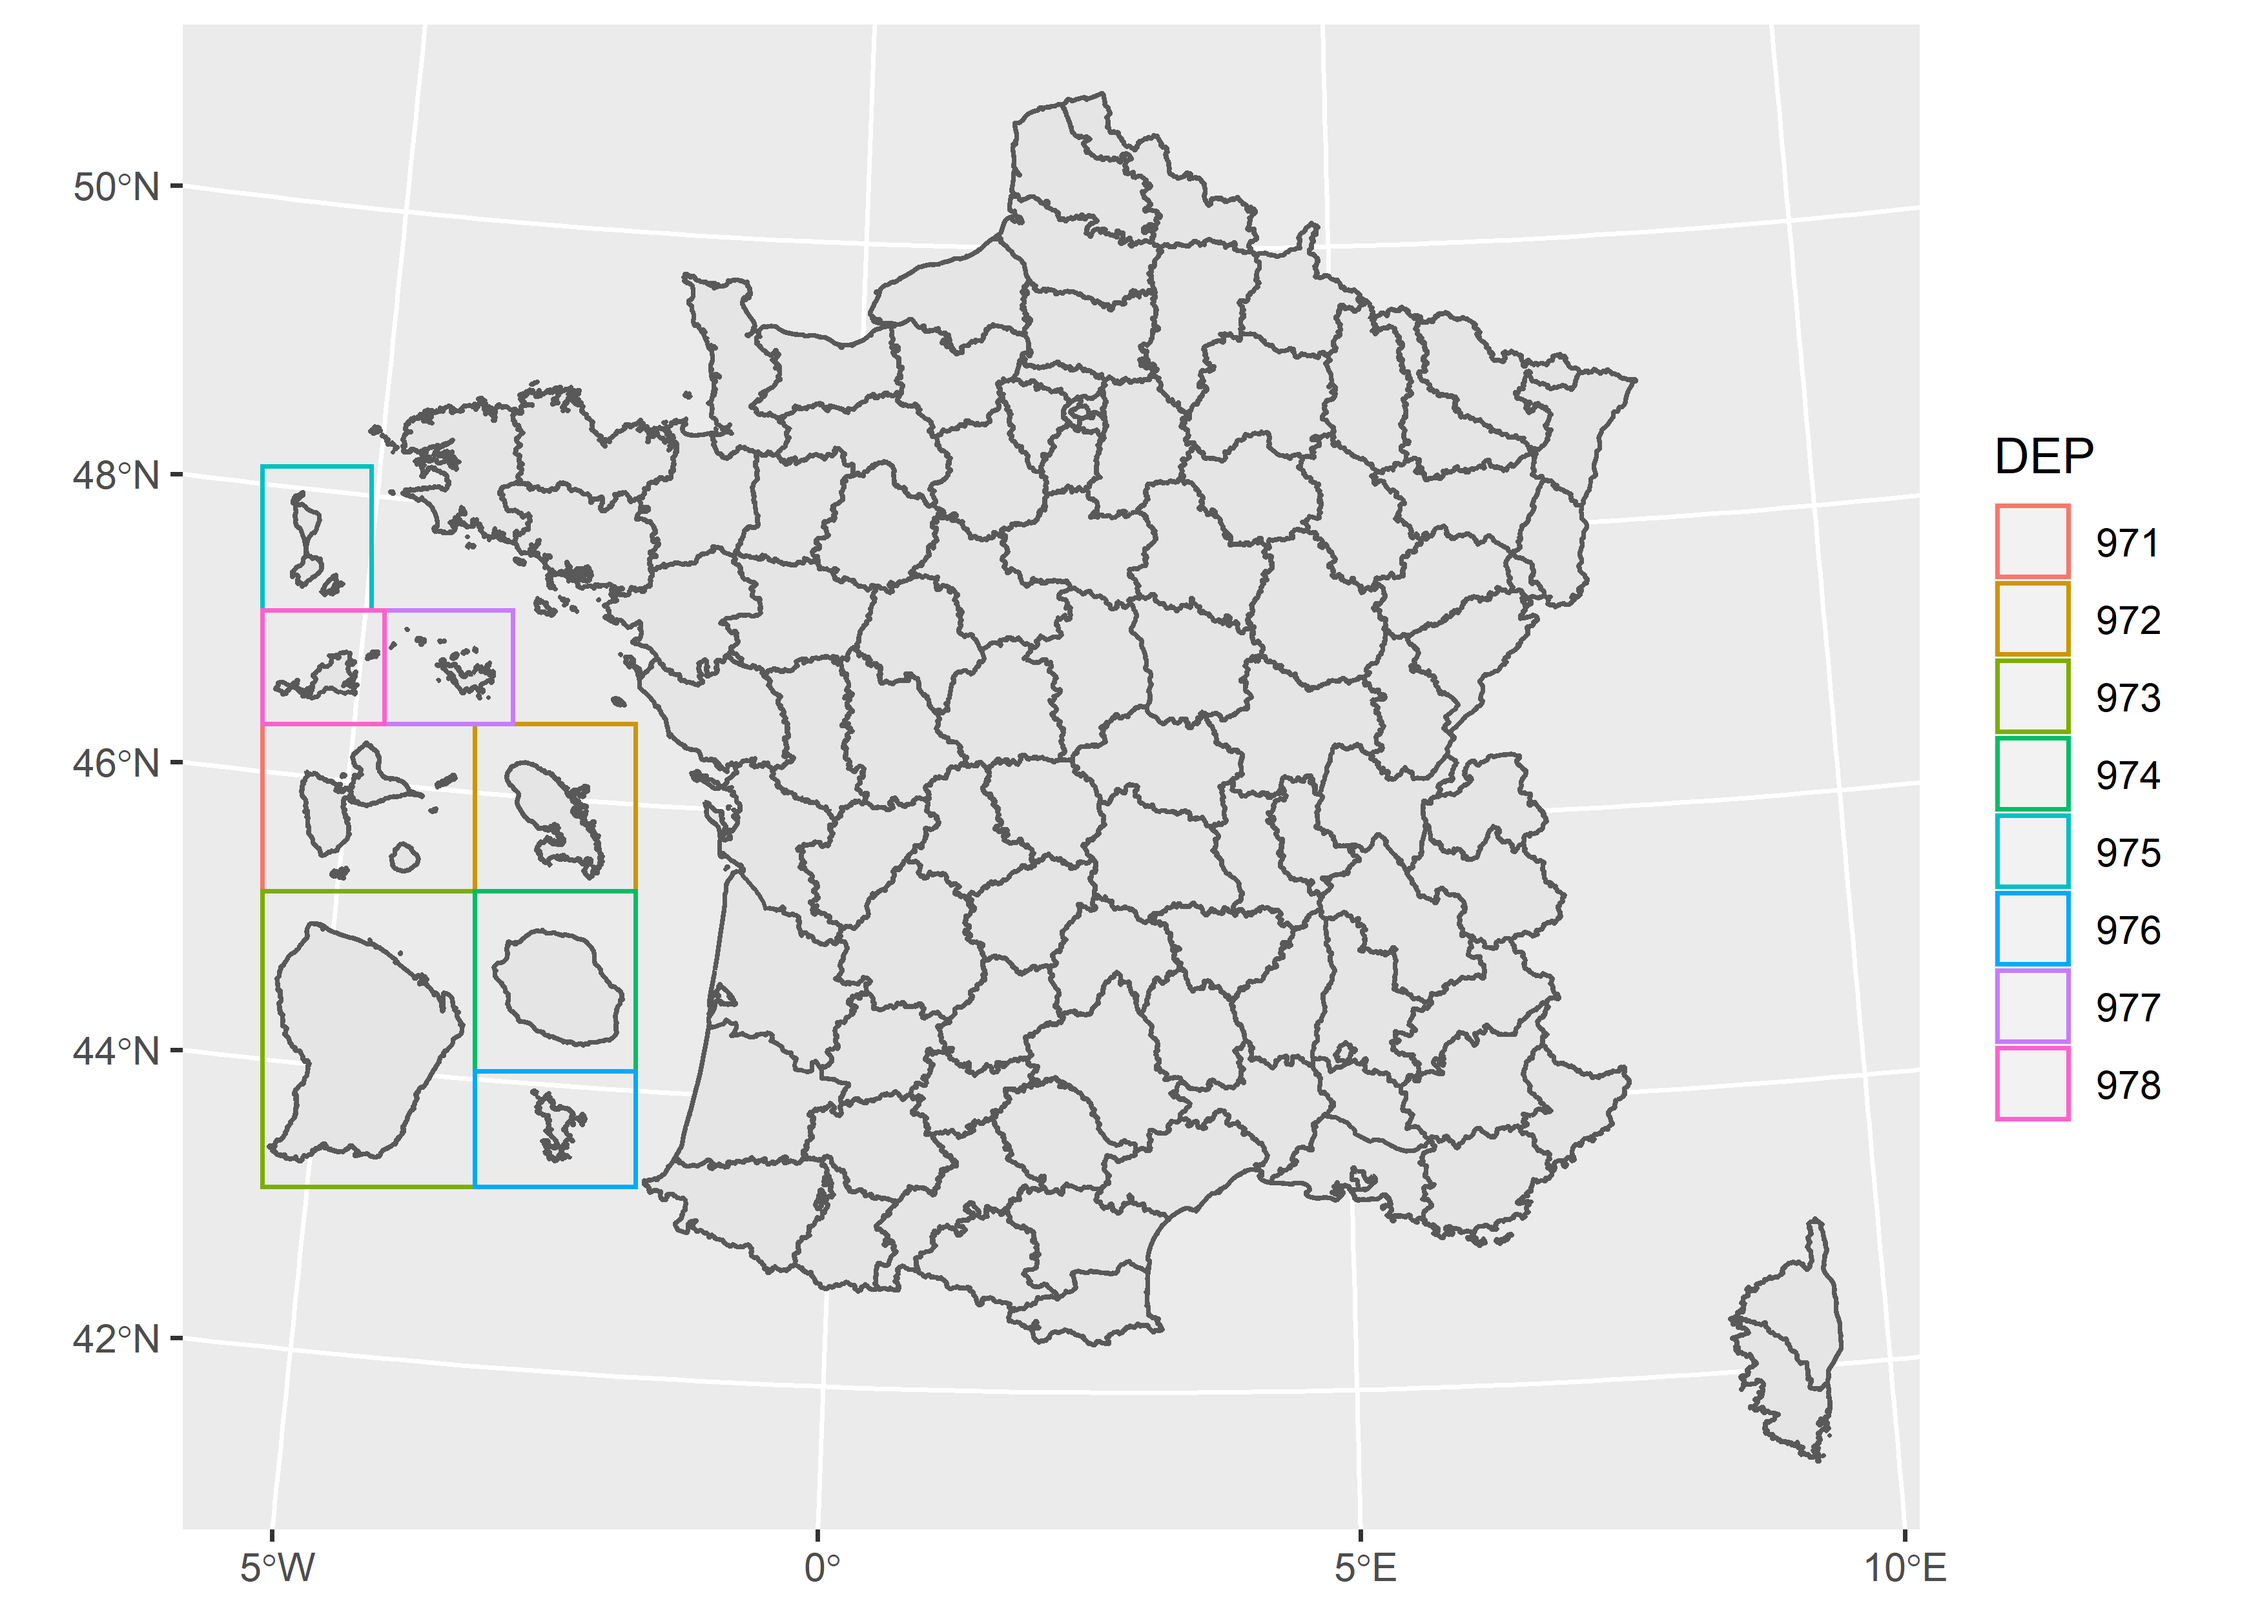
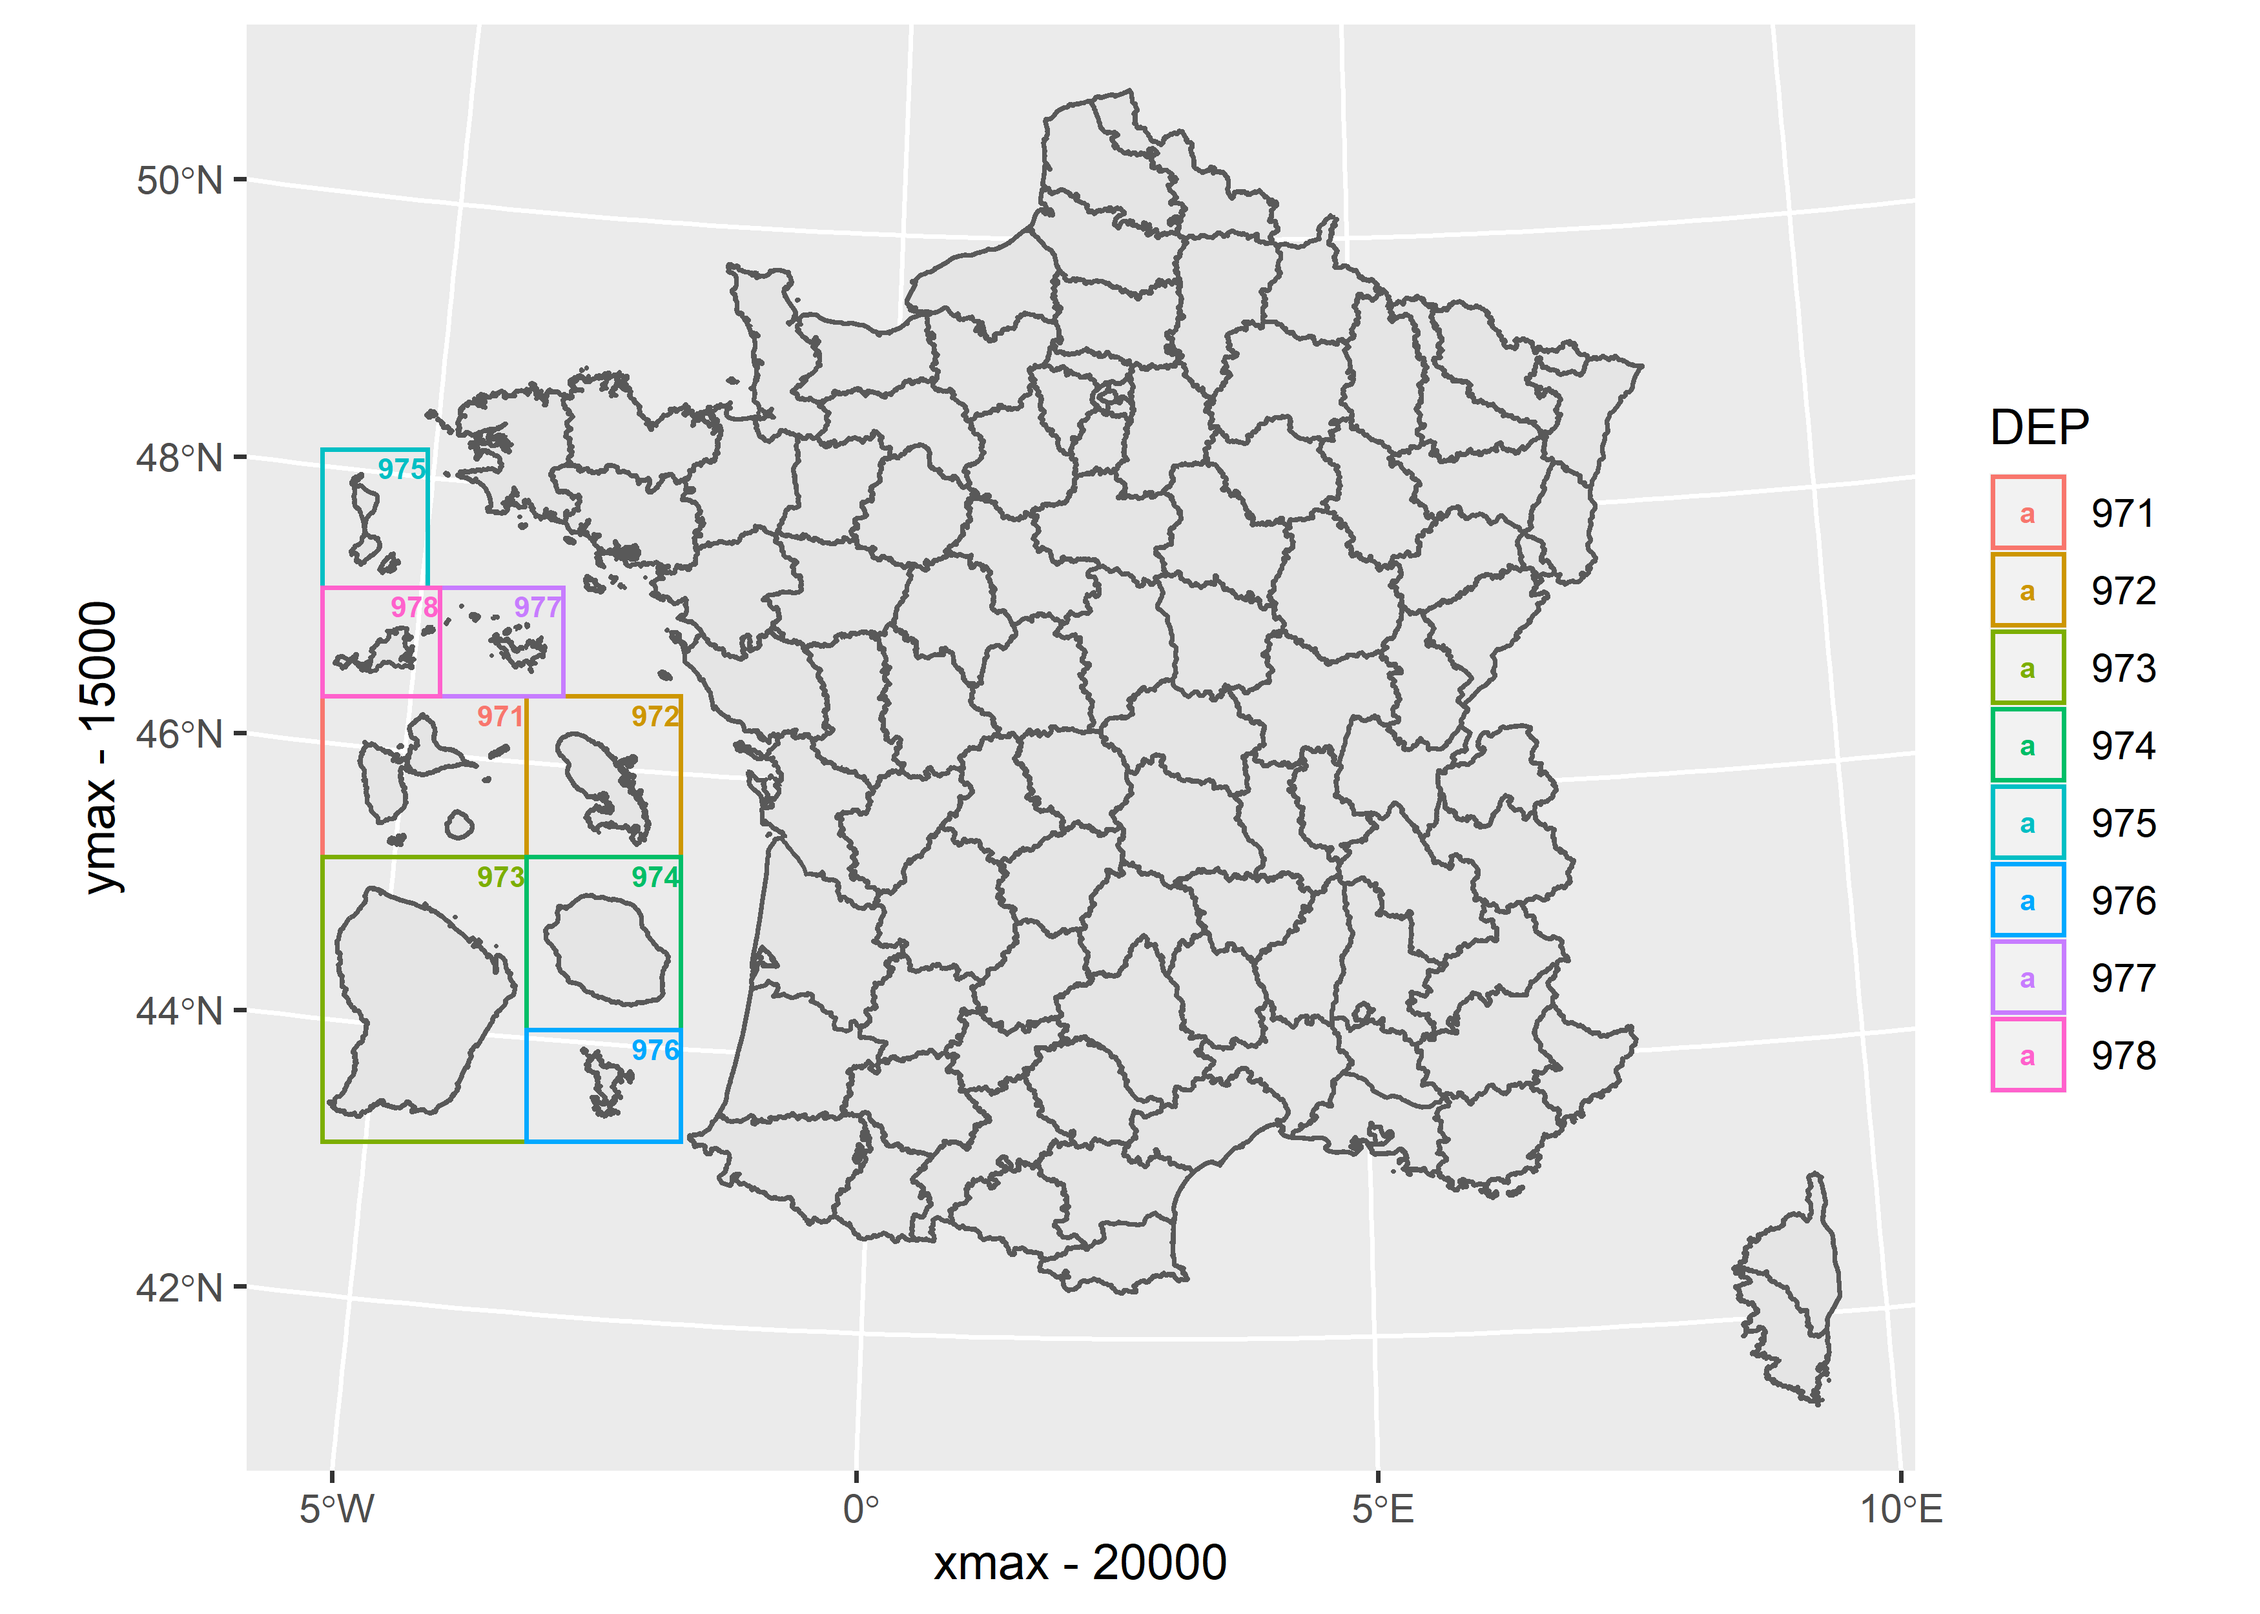
étiquettes cartons

diff --git a/README.md b/README.md
@@ -124,12 +124,22 @@ ggplot() +
                 # agrégation des COM visuellement rapprochés
                 rbind.data.frame(DEP_975.proche) %>%
                 rbind.data.frame(DEP_977_978.proche)) +
+  # délimitations des zones
   geom_rect(data = param_cadres_om,
               aes(xmin = xmin, xmax = xmax, 
                   ymin = ymin, ymax = ymax, 
                   group = DEP, color = DEP),
               fill = NA,
-              stroke = 1)
+              stroke = 1) +
+  # affichage des étiquettes
+    geom_text(data = param_cadres_om,
+               aes(x = xmax-20000, 
+                   y = ymax-15000, 
+                   color = DEP,
+                   label = DEP),
+               fill = NA,
+               size = 2.3,
+               fontface = "bold")
 ```
 
 <img src="man/figures/README-cartons-1.png" width="100%" />
